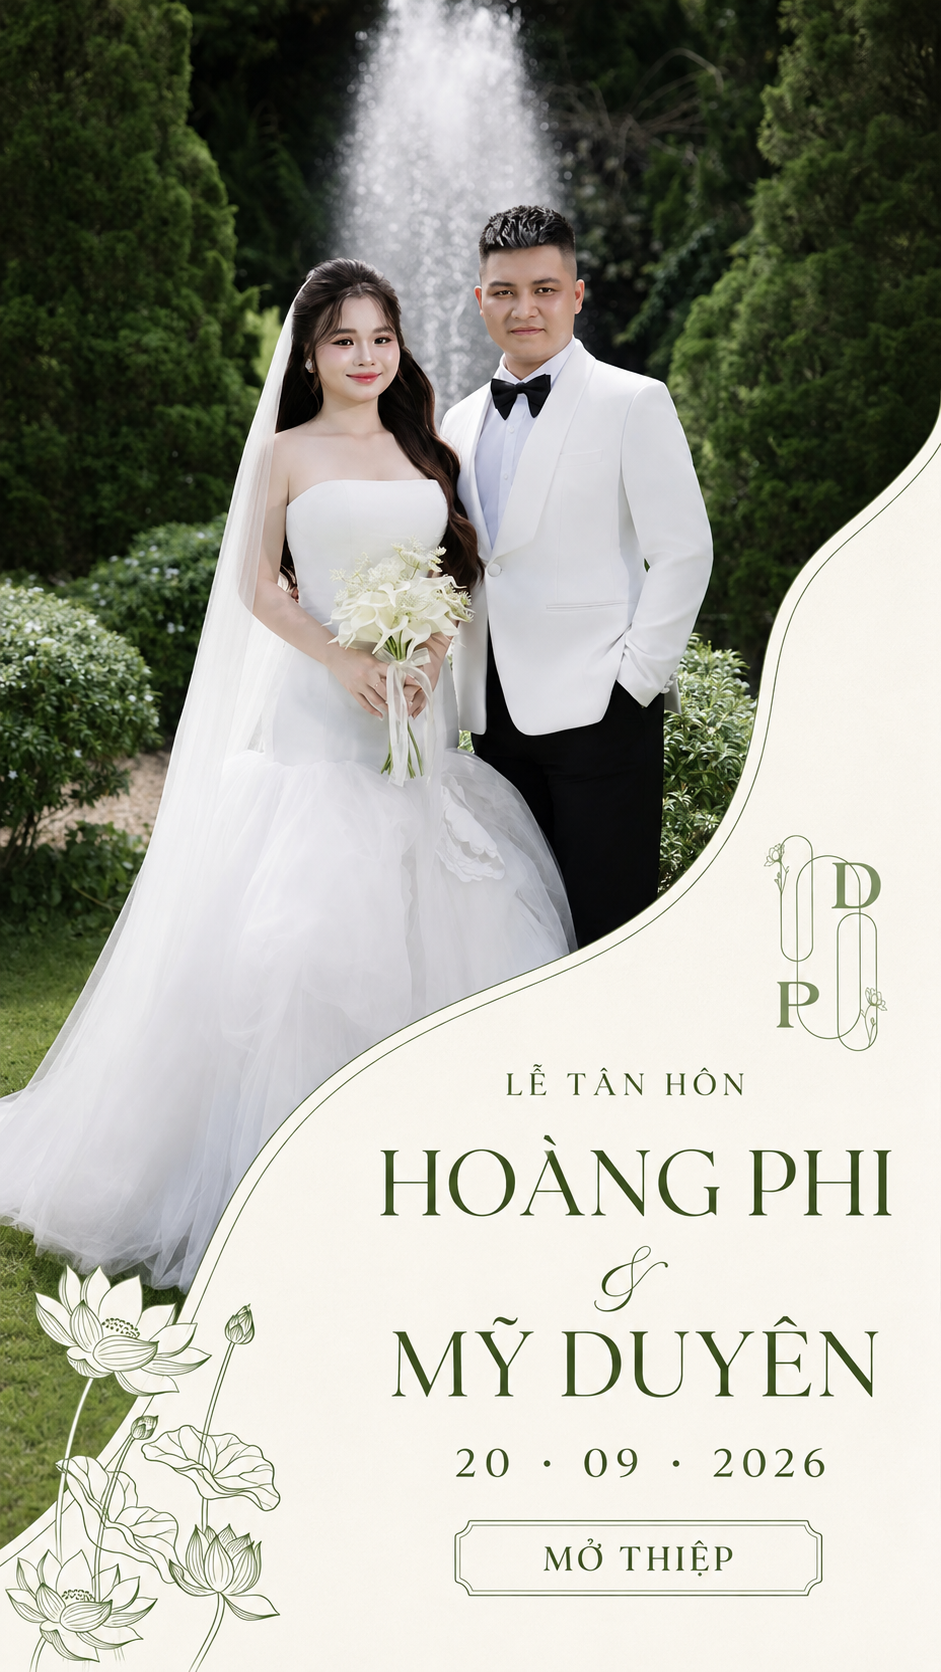
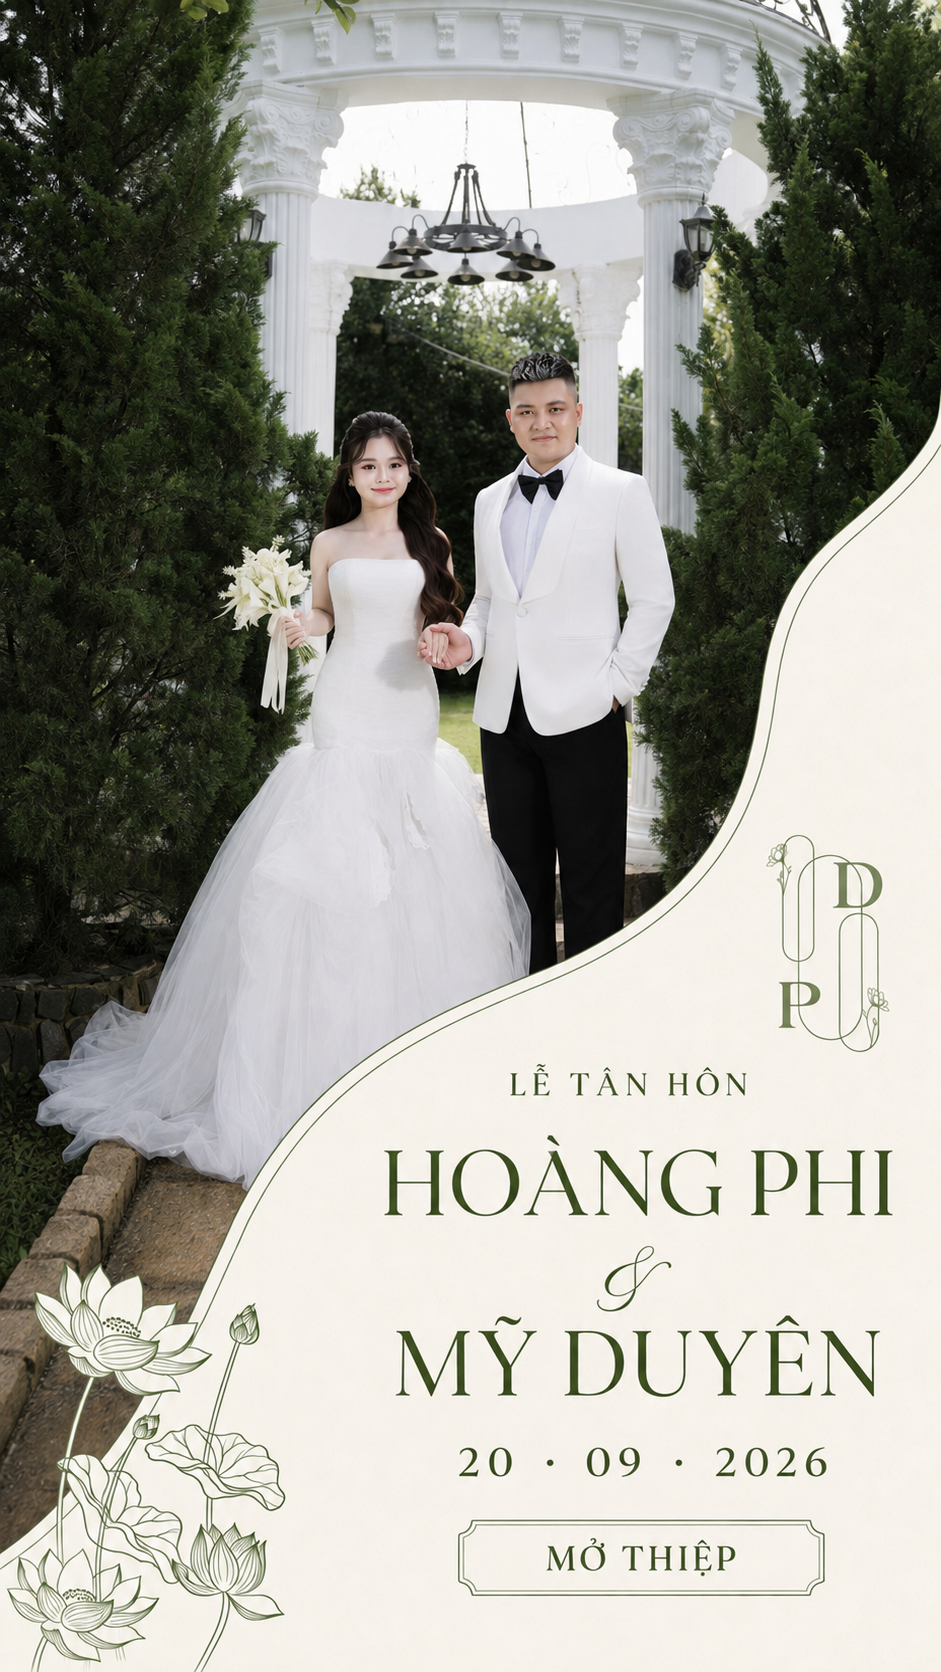
feat: update Phi wedding invitation assets

diff --git a/components/phi/phi-invitation.tsx b/components/phi/phi-invitation.tsx
@@ -8,6 +8,8 @@ import { useEffect, useRef, useState } from "react"
 import type { PhiInvitationData } from "@/data/phi-wedding"
 import styles from "./phi-invitation.module.css"
 
+const PHI_MUSIC_VIDEO_ID = "Y5VoCfbB6As"
+
 function DesignSection({ src, alt, eager = false }: { src: string; alt: string; eager?: boolean }) {
   return (
     <section className={styles.designSection} data-reveal>
@@ -135,15 +137,25 @@ export function PhiInvitation({ data }: { data: PhiInvitationData }) {
   const [opening, setOpening] = useState(false)
   const [musicPlaying, setMusicPlaying] = useState(false)
   const openTimer = useRef<number | null>(null)
-  const audioRef = useRef<HTMLAudioElement | null>(null)
+  const youtubeFrameRef = useRef<HTMLIFrameElement | null>(null)
 
-  useEffect(() => {
-    const audio = audioRef.current
-    if (!audio) return
+  const sendYoutubeCommand = (func: "playVideo" | "pauseVideo" | "setVolume", args: number[] = []) => {
+    youtubeFrameRef.current?.contentWindow?.postMessage(
+      JSON.stringify({ event: "command", func, args }),
+      "https://www.youtube.com",
+    )
+  }
 
-    audio.volume = 0.42
-    void audio.play().catch(() => undefined)
-  }, [data.side])
+  const playMusic = () => {
+    sendYoutubeCommand("setVolume", [42])
+    sendYoutubeCommand("playVideo")
+    setMusicPlaying(true)
+  }
+
+  const pauseMusic = () => {
+    sendYoutubeCommand("pauseVideo")
+    setMusicPlaying(false)
+  }
 
   useEffect(() => {
     if (openTimer.current) {
@@ -225,12 +237,7 @@ export function PhiInvitation({ data }: { data: PhiInvitationData }) {
   const openInvitation = () => {
     if (opening) return
     window.scrollTo(0, 0)
-
-    const audio = audioRef.current
-    if (audio) {
-      audio.volume = 0.42
-      void audio.play().catch(() => undefined)
-    }
+    playMusic()
 
     if (window.matchMedia("(prefers-reduced-motion: reduce)").matches) {
       setOpening(true)
@@ -243,14 +250,8 @@ export function PhiInvitation({ data }: { data: PhiInvitationData }) {
   }
 
   const toggleMusic = () => {
-    const audio = audioRef.current
-    if (!audio) return
-
-    if (audio.paused) {
-      void audio.play().catch(() => undefined)
-    } else {
-      audio.pause()
-    }
+    if (musicPlaying) pauseMusic()
+    else playMusic()
   }
 
   const sideLabel = data.side === "bride" ? "nhà gái" : "nhà trai"
@@ -316,15 +317,18 @@ export function PhiInvitation({ data }: { data: PhiInvitationData }) {
         </footer>
       </main>
 
-      <audio
-        ref={audioRef}
-        src="/ct.mp3"
-        autoPlay
-        loop
-        preload="auto"
-        playsInline
-        onPlay={() => setMusicPlaying(true)}
-        onPause={() => setMusicPlaying(false)}
+      <iframe
+        ref={youtubeFrameRef}
+        className={styles.youtubePlayer}
+        src={`https://www.youtube.com/embed/${PHI_MUSIC_VIDEO_ID}?enablejsapi=1&controls=0&loop=1&playlist=${PHI_MUSIC_VIDEO_ID}&playsinline=1&rel=0`}
+        title="Váy Cưới — ERIK x Kai Đinh"
+        allow="autoplay; encrypted-media"
+        tabIndex={-1}
+        aria-hidden="true"
+        onLoad={() => {
+          sendYoutubeCommand("setVolume", [42])
+          if (musicPlaying) sendYoutubeCommand("playVideo")
+        }}
       />
 
       <button

diff --git a/data/phi-wedding.ts b/data/phi-wedding.ts
@@ -29,7 +29,7 @@ export const phiWeddingData = {
     reception: "10:30",
     banquet: "11:00",
     ceremonyTime: "09:00",
-    mapUrl: "https://www.google.com/maps/search/?api=1&query=TDP+1+Phuong+Thanh+Nhat+Dak+Lak",
+    mapUrl: "https://maps.app.goo.gl/9JVkqX5bHi2iDuDm9",
     qrImage: "/images/phi/qr-nha-gai-cropped-v3.jpg",
     design: {
       cover: "/images/phi/design/bride-cover.png",

diff --git a/components/phi/phi-invitation.module.css b/components/phi/phi-invitation.module.css
@@ -721,6 +721,16 @@
   text-transform: uppercase;
 }
 
+.youtubePlayer {
+  position: fixed;
+  left: -9999px;
+  width: 1px;
+  height: 1px;
+  border: 0;
+  opacity: 0;
+  pointer-events: none;
+}
+
 .musicToggle {
   position: fixed;
   z-index: 20;
